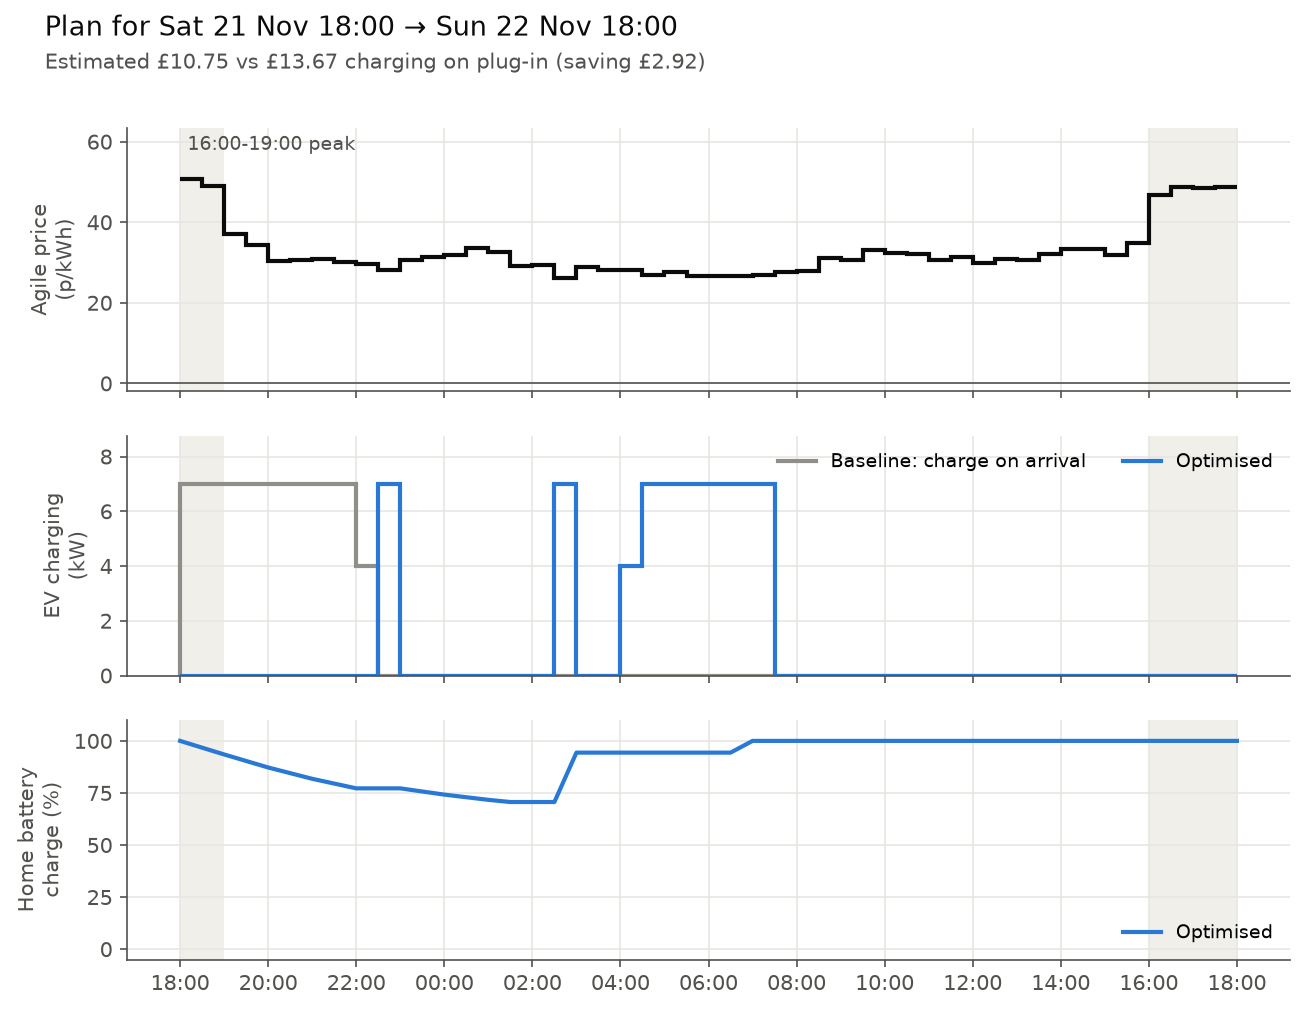
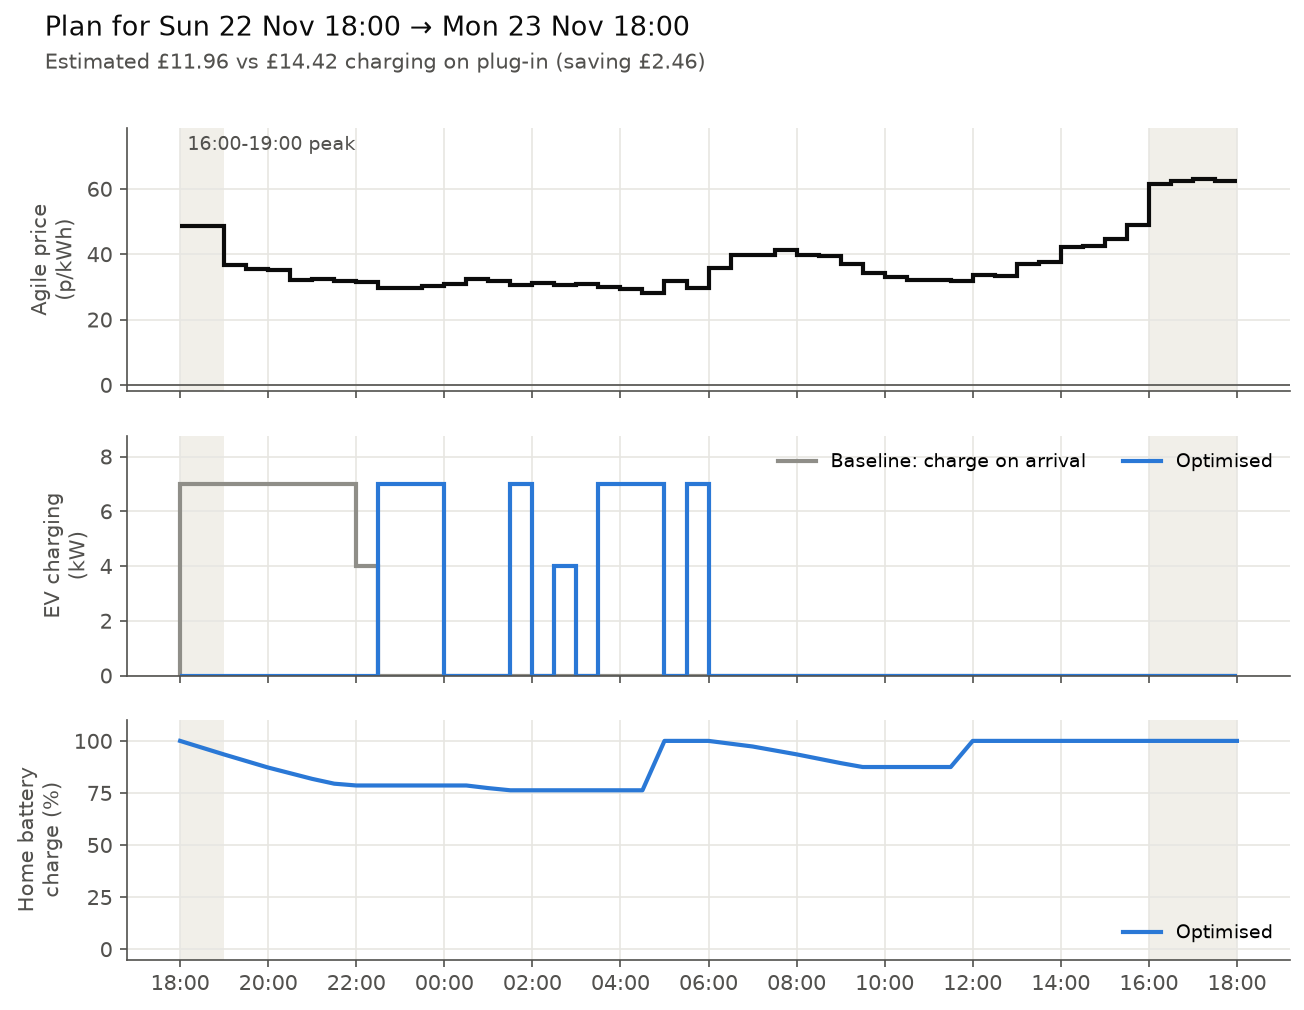
Charging plan for 2026-11-22

diff --git a/plans/latest.md b/plans/latest.md
@@ -1,34 +1,36 @@
-# Charging plan: Sat 21 Nov 18:00 → Sun 22 Nov 18:00
+# Charging plan: Sun 22 Nov 18:00 → Mon 23 Nov 18:00
 
-**Estimated cost for the day (home + car): £10.75**, against £13.67 if the car charged as soon as it was plugged in. **Saving: £2.92 (21%).**
+**Estimated cost for the day (home + car): £11.96**, against £14.42 if the car charged as soon as it was plugged in. **Saving: £2.46 (17%).**
 
-Tariff E-1R-AGILE-24-10-01-C · generated 21 Nov 16:15 UK time
+Tariff E-1R-AGILE-24-10-01-C · generated 22 Nov 16:15 UK time
 
 ## Car: 30 kWh needed by 07:30
 
-- Charge **22:30–23:00**, 3.5 kWh (avg 28.1p/kWh)
-- Charge **02:30–03:00**, 3.5 kWh (avg 26.1p/kWh)
-- Charge **04:00–07:30**, 23.0 kWh (avg 27.0p/kWh)
+- Charge **22:30–00:00**, 10.5 kWh (avg 29.9p/kWh)
+- Charge **01:30–02:00**, 3.5 kWh (avg 30.7p/kWh)
+- Charge **02:30–03:00**, 2.0 kWh (avg 30.7p/kWh)
+- Charge **03:30–05:00**, 10.5 kWh (avg 29.1p/kWh)
+- Charge **05:30–06:00**, 3.5 kWh (avg 29.5p/kWh)
 
 ## Home battery
 
-- Charge **02:30–03:00**, 2.5 kWh
-- Charge **06:30–07:00**, 0.6 kWh
-- Power the home (and car) **18:00–22:00**, 2.2 kWh
-- Power the home (and car) **23:00–01:30**, 0.6 kWh
+- Charge **04:30–05:00**, 2.5 kWh
+- Charge **11:30–12:00**, 1.3 kWh
+- Power the home (and car) **18:00–22:00**, 2.0 kWh
+- Power the home (and car) **06:00–09:30**, 1.2 kWh
 
 ## Flexible appliances (washing machine, dishwasher, tumble dryer)
 
-- Good: **22:00–23:00** (avg 28.8p)
-- Good: **07:00–09:00** (avg 28.5p)
-- Avoid: 18:00–19:00 (avg 49.8p)
+- Good: **21:00–23:00** (avg 31.3p)
+- Good: **11:00–12:00** (avg 31.9p)
+- Avoid: 16:30–17:30 (avg 62.7p)
 
 ## Prices
 
-Cheapest 26.1p at 02:30 · most expensive 50.7p at 18:00 · average 32.7p/kWh
+Cheapest 28.0p at 04:30 · most expensive 62.9p at 17:00 · average 37.4p/kWh
 
 ## Running total
 
-Saved **£20.42** over 11 planned day(s) since 11 Nov 2026, compared with charging on plug-in.
+Saved **£22.88** over 12 planned day(s) since 11 Nov 2026, compared with charging on plug-in.
 
 ![Plan chart](latest.png)

diff --git a/plans/archive/2026-11-22.md b/plans/archive/2026-11-22.md
@@ -1,0 +1,35 @@
+# Charging plan: Sun 22 Nov 18:00 → Mon 23 Nov 18:00
+
+**Estimated cost for the day (home + car): £11.96**, against £14.42 if the car charged as soon as it was plugged in. **Saving: £2.46 (17%).**
+
+Tariff E-1R-AGILE-24-10-01-C · generated 22 Nov 16:15 UK time
+
+## Car: 30 kWh needed by 07:30
+
+- Charge **22:30–00:00**, 10.5 kWh (avg 29.9p/kWh)
+- Charge **01:30–02:00**, 3.5 kWh (avg 30.7p/kWh)
+- Charge **02:30–03:00**, 2.0 kWh (avg 30.7p/kWh)
+- Charge **03:30–05:00**, 10.5 kWh (avg 29.1p/kWh)
+- Charge **05:30–06:00**, 3.5 kWh (avg 29.5p/kWh)
+
+## Home battery
+
+- Charge **04:30–05:00**, 2.5 kWh
+- Charge **11:30–12:00**, 1.3 kWh
+- Power the home (and car) **18:00–22:00**, 2.0 kWh
+- Power the home (and car) **06:00–09:30**, 1.2 kWh
+
+## Flexible appliances (washing machine, dishwasher, tumble dryer)
+
+- Good: **21:00–23:00** (avg 31.3p)
+- Good: **11:00–12:00** (avg 31.9p)
+- Avoid: 16:30–17:30 (avg 62.7p)
+
+## Prices
+
+Cheapest 28.0p at 04:30 · most expensive 62.9p at 17:00 · average 37.4p/kWh
+
+## Running total
+
+Saved **£22.88** over 12 planned day(s) since 11 Nov 2026, compared with charging on plug-in.
+
